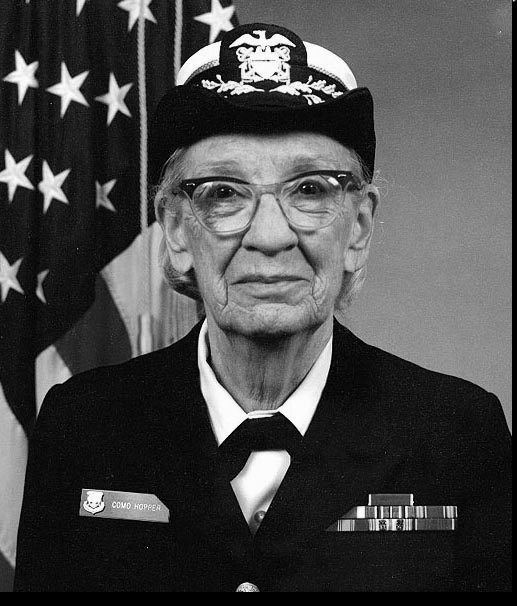
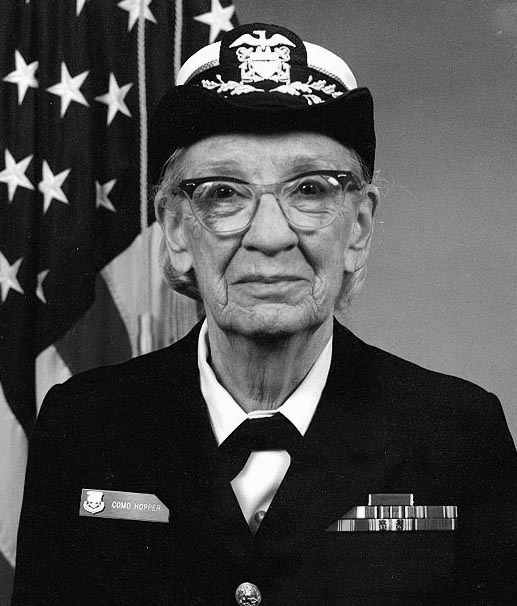
the grayscale filter done

diff --git a/chapter-3/code/rgb_to_greyscale/rgb_to_grayscale.py b/chapter-3/code/rgb_to_greyscale/rgb_to_grayscale.py
@@ -1,9 +1,6 @@
 from pathlib import Path
-import torch
 from torchvision.io import read_image, write_png
 from torch.utils.cpp_extension import load_inline
-from PIL import Image
-from torchvision.transforms import ToTensor
 
 def compile_extension(): 
     cuda_source = (Path(__file__).parent / "rgb_to_grayscale.cu").read_text()
@@ -18,33 +15,24 @@ def compile_extension():
     )
 
 def main():
-    
-    DEVICE = "cuda"
-    DTYPE = torch.uint8
-    SIZE = (128, 128)
     current_dir = Path(__file__).parent
+    x = read_image(current_dir.parent / "Grace_Hopper.jpg").permute(1, 2, 0).cuda()
 
-    # img_path = Path(__file__).parent.parent / "wroclaw_colorful.png"
-    # img = Image.open(img_path).convert('RGB')
-    # print(img)
-    # x = ToTensor()(img).permute(1, 2, 0).to(DEVICE, DTYPE)
-    # print(x)
-    x = read_image(current_dir / "Grace_Hopper.jpg").permute(1, 2, 0).cuda()
-
+    print("Original:")
     print("mean:", x.float().mean())
     print("Input image:", x.shape, x.dtype)
+    print()
 
     ext = compile_extension()
     y = ext.rgb_to_grey(x)
 
-    print()
+    print("Converted:")
     print("mean:", y.float().mean())
     print("Input image:", y.shape, y.dtype)
-    write_png(y.permute(2, 0, 1).cpu(), current_dir / "output.png")
 
-
-    
-
+    save_path = current_dir / "output.png"
+    print(f"Converted to grayscale, saved at {save_path}")
+    write_png(y.permute(2, 0, 1).cpu(), save_path)
 
 
 if __name__ == "__main__":
